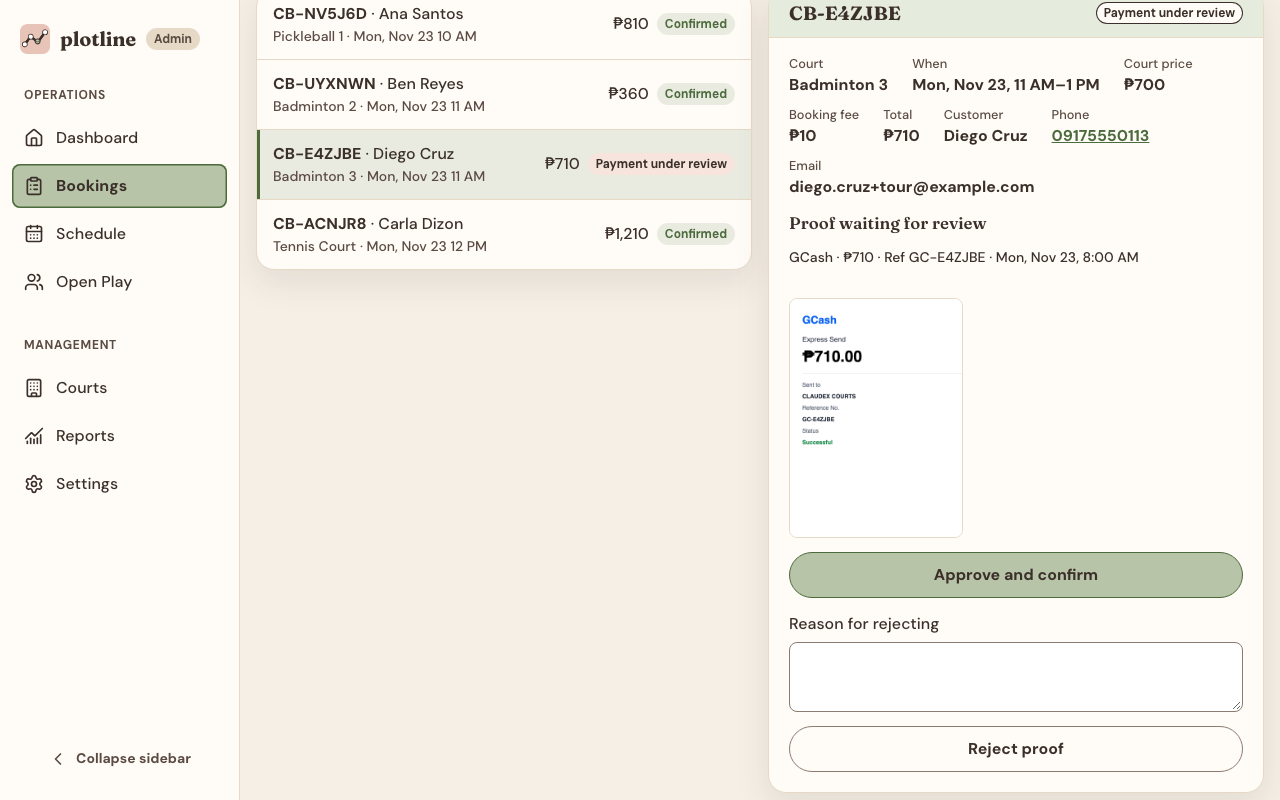
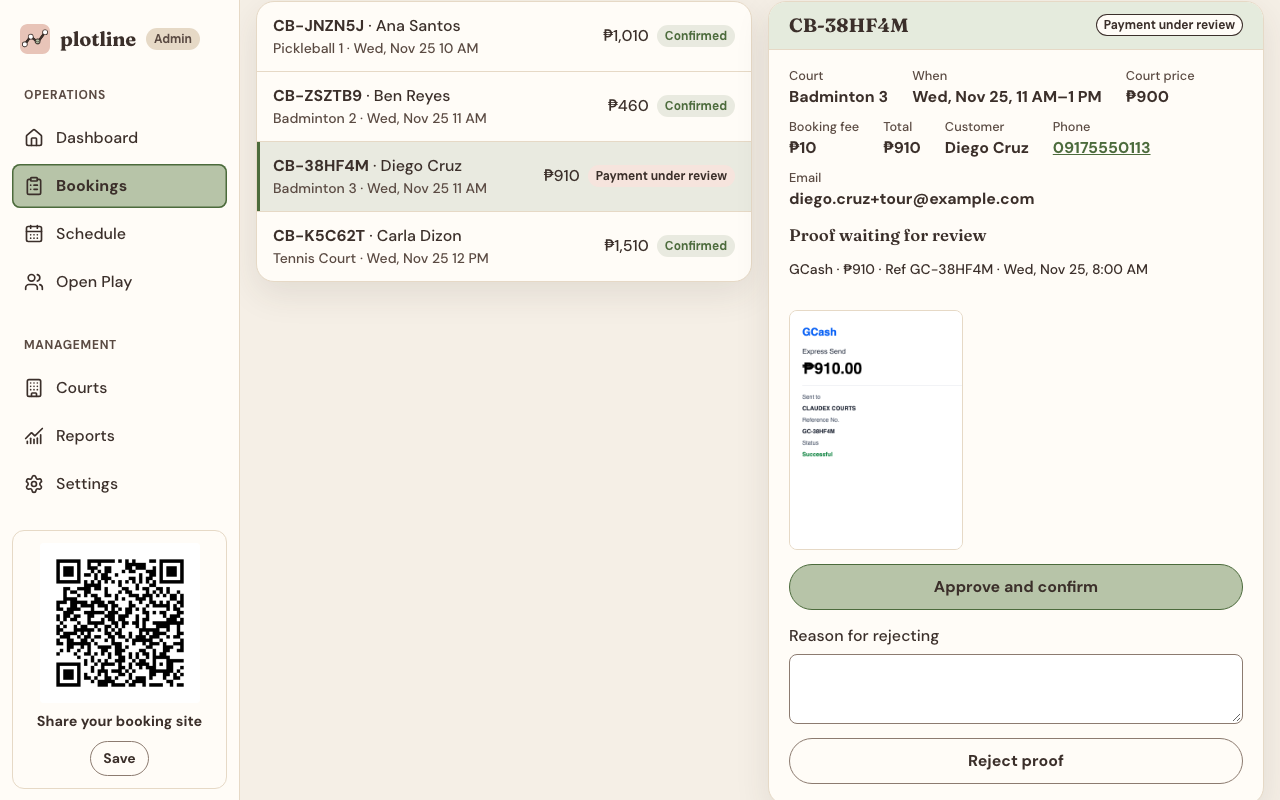
docs: T34.2 close out M34 booking-site QR code
SPEC §9 item 34 done; admin tour pictures redrawn with the QR card.

diff --git a/TASKS.md b/TASKS.md
@@ -4,7 +4,7 @@ The working plan. [SPEC.md](SPEC.md) says **what** the product does; this file s
 
 ## Handoff
 
-- **Next task:** T34.2 Close out M34. **T34.1 done 2026-11-25** (reviewer PASS, committed on `feat-venue-qr-code`, not pushed; frontend only). Still open: the user's by-eye scan of the saved PNG on staging. **Shared local stack (2026-11-25):** this worktree and the main checkout share one local Supabase. The M33 session's local migrations `20261125043704` and `20261125052908` broke `test:db` here (`MigrationMissingLocalError`), so with the user's go-ahead the local db was reset to this branch's migrations. The M33 checkout's next `test:db` re-applies them (`migration up --local`). The Stop hook's fast checks run in the main checkout, so its red `selection.test.ts`/`BookPage.selection.test.tsx` runs were M33 work in progress, not T34.1. Otherwise T16.4, T16.5, T16.7 or break down the next milestone (needs approval). **Recorded 2026-11-25 (`/propose`, the user's calls, branch `feat-venue-qr-code`): M34 Booking-site QR code**, T34.1 Booking-site QR code in the admin sidebar and T34.2 Close out M34. It's UI only with no plan gate and can start any time. It's numbered 34 because M33 Multi-court checkout is on `feat-multiple-courts-transaction`, so expect a small TASKS/SPEC conflict when the branches meet. The next task doesn't change. **T31.3 Owner manual edition 1.2 done 2026-11-24** (reviewer PASS; 25 pages, 1,859,721 bytes; `OWNER_GUIDE_FILE` = v1.2). **Released 2026-11-24:** PR #53 (`027d015`) put v1.2 on the venue sites, then `invite-venue-owner` went to staging v17 and production v7 (bundle `1cb75a62291a…`); production preflight passed (105 migrations, 11 functions, 7 of 7 venues on schedule v2). Invites now attach v1.2. Not yet proven end to end: no real invite was sent. T16.4, T16.5, T16.7 or break down the next milestone (needs approval). **M31 Daily slots image ✅ done on 2026-11-23** (T31.1, T31.1b, T31.2; frontend only, already on `master` through PR #52, `ee33ce3`; L6: `preflight:release` PASSED on `jmichyttnqygwdcksbpg`, 105 migrations, 11 functions, `origin/master..develop` empty). **T31.1b done 2026-11-23** (Post open slots dialog with preview, Share removed, clearer words; reviewer PASS; added on the user's review of T31.1, design approved in https://claude.ai/artifact/43aHDC37uVwRTGZbn358zg). **T31.1 done 2026-11-23** (slots image on the dashboard, reviewer PASS; frontend only, on `master` through PR #52; the user's Facebook feed check and a logo venue on staging passed, the user confirmed on 2026-11-23). **H20 done 2026-11-23** (`npm run test:db:check -- <file…>` tells a broken pgTAP file from a red one; the test-writer runs it on every new or changed pgTAP file and `/implement` step 4 waits for exit 0; reviewer PASS; its last acceptance point is checked at the next milestone's retro). **M32 Schedule cutover follow-ups ✅ done on 2026-11-23** (T32.1 `2246339`, T32.2 `f9db58f`, T32.3; milestone review PASS). **T32.1's migration `20261123052637` is on staging and production** (pushed to production 2026-11-23 with the user's approval: dry run showed only it; afterwards `preflight:release` PASSED on `jmichyttnqygwdcksbpg` with 105 migrations, 11 functions, 7 of 7 venues on schedule v2; column default `true`; CLI linked back to staging). New venues now start active everywhere, so no hand activation is needed. `develop` also carries T32.2, `53d0472` (admin header fix) and docs, all frontend or docs with their backend on production, so a `develop` → `master` merge is unblocked (the user's call). **Optional housekeeping (the user deferred it on 2026-11-23):** redeploy `email-guest-link` to staging and production to bring its bundle in line with `develop`. No guest sees a difference: it only sends `booking_created`, which never carries a calendar file (only `send-emails` attaches one, for `payment_confirmed`, `booking_reminder` and `booking_rescheduled`; `_shared/calendarFile.ts` `KINDS`), and T30.3 didn't change that email's copy.
+- **Next task:** T16.4, T16.5, T16.7 or break down the next milestone (needs approval). **M34 Booking-site QR code ✅ done on 2026-11-25** (T34.1 `8a4adee`, T34.2; milestone review PASS; frontend only, on branch `feat-venue-qr-code`, not pushed). The production preflight PASSED, with nothing backend held back. Open: the user's by-eye scan of the saved PNG on staging; plotline-site's tour images (copied, uncommitted) need a release; the owner manual's next edition gets the QR card. The `/retro` for M34 is next. **Shared local stack (2026-11-25):** this worktree and the main checkout share one local Supabase. The M33 session's local migrations `20261125043704` and `20261125052908` broke `test:db` here (`MigrationMissingLocalError`), so with the user's go-ahead the local db was reset to this branch's migrations. The M33 checkout's next `test:db` re-applies them (`migration up --local`). The Stop hook's fast checks run in the main checkout, so its red `selection.test.ts`/`BookPage.selection.test.tsx` runs were M33 work in progress, not T34.1. Otherwise T16.4, T16.5, T16.7 or break down the next milestone (needs approval). **Recorded 2026-11-25 (`/propose`, the user's calls, branch `feat-venue-qr-code`): M34 Booking-site QR code**, T34.1 Booking-site QR code in the admin sidebar and T34.2 Close out M34. It's UI only with no plan gate and can start any time. It's numbered 34 because M33 Multi-court checkout is on `feat-multiple-courts-transaction`, so expect a small TASKS/SPEC conflict when the branches meet. The next task doesn't change. **T31.3 Owner manual edition 1.2 done 2026-11-24** (reviewer PASS; 25 pages, 1,859,721 bytes; `OWNER_GUIDE_FILE` = v1.2). **Released 2026-11-24:** PR #53 (`027d015`) put v1.2 on the venue sites, then `invite-venue-owner` went to staging v17 and production v7 (bundle `1cb75a62291a…`); production preflight passed (105 migrations, 11 functions, 7 of 7 venues on schedule v2). Invites now attach v1.2. Not yet proven end to end: no real invite was sent. T16.4, T16.5, T16.7 or break down the next milestone (needs approval). **M31 Daily slots image ✅ done on 2026-11-23** (T31.1, T31.1b, T31.2; frontend only, already on `master` through PR #52, `ee33ce3`; L6: `preflight:release` PASSED on `jmichyttnqygwdcksbpg`, 105 migrations, 11 functions, `origin/master..develop` empty). **T31.1b done 2026-11-23** (Post open slots dialog with preview, Share removed, clearer words; reviewer PASS; added on the user's review of T31.1, design approved in https://claude.ai/artifact/43aHDC37uVwRTGZbn358zg). **T31.1 done 2026-11-23** (slots image on the dashboard, reviewer PASS; frontend only, on `master` through PR #52; the user's Facebook feed check and a logo venue on staging passed, the user confirmed on 2026-11-23). **H20 done 2026-11-23** (`npm run test:db:check -- <file…>` tells a broken pgTAP file from a red one; the test-writer runs it on every new or changed pgTAP file and `/implement` step 4 waits for exit 0; reviewer PASS; its last acceptance point is checked at the next milestone's retro). **M32 Schedule cutover follow-ups ✅ done on 2026-11-23** (T32.1 `2246339`, T32.2 `f9db58f`, T32.3; milestone review PASS). **T32.1's migration `20261123052637` is on staging and production** (pushed to production 2026-11-23 with the user's approval: dry run showed only it; afterwards `preflight:release` PASSED on `jmichyttnqygwdcksbpg` with 105 migrations, 11 functions, 7 of 7 venues on schedule v2; column default `true`; CLI linked back to staging). New venues now start active everywhere, so no hand activation is needed. `develop` also carries T32.2, `53d0472` (admin header fix) and docs, all frontend or docs with their backend on production, so a `develop` → `master` merge is unblocked (the user's call). **Optional housekeeping (the user deferred it on 2026-11-23):** redeploy `email-guest-link` to staging and production to bring its bundle in line with `develop`. No guest sees a difference: it only sends `booking_created`, which never carries a calendar file (only `send-emails` attaches one, for `payment_confirmed`, `booking_reminder` and `booking_rescheduled`; `_shared/calendarFile.ts` `KINDS`), and T30.3 didn't change that email's copy.
 - **Schedule v2 activated everywhere (2026-11-23, the user's approval; outputs seen this session):** owners' later closing times (11 PM, midnight) never reached players because the T17.17 activation (docs/SCHEDULE-CUTOVER.md step 4) had never run. **Staging** `avhxinkecylhptysgbjx`: Claudex Courts' periods had drifted, so they were first rewritten from `operating_hours` (the user's call), then both venues were activated. **Production** `jmichyttnqygwdcksbpg`: `preflight:release` PASSED (104 migrations, 11 functions). No custom courts, and no future booking outside the periods. All 7 venues were activated keeping the editor's hours (the user's call); claudex-courts and prj-pickle-court-sports-center now run past 10 PM. Production was reached with `npx supabase db query --linked --project-ref jmichyttnqygwdcksbpg`; the CLI link stays on staging. Rates were never affected. Follow-ups are **M32** (T32.1 new venues start active, risky; T32.2 admin stops reading the legacy hours; T32.3 close out). (T32.1 reached production on 2026-11-23, so new venues start active; no hand activation is needed.)
 - **Product audit (2026-11-12):** reviewed both repositories as one SaaS; see [Plotline SaaS product review](<reports/Plotline SaaS product review.md>). Analysis only: recommendations are not accepted backlog or implementation changes; product code and the current next task are unchanged. Research included read-only live marketing/demo inspection; no implementation gates were run. **Broken down on 2026-11-13 into M27** (the user's calls; see Current milestone).
 
@@ -3345,7 +3345,8 @@ Venue owners hand their booking site to players and post it on Facebook. Every v
   - By eye (the user): scan the saved PNG from a phone screen and from a printout, for a venue with a logo and one without, on staging.
   - The full gate passes and the reviewer signs off.
 
-### [ ] T34.2 Close out M34
+### [x] T34.2 Close out M34
+- Notes: done 2026-11-25. SPEC §9 item 34 ✅; the /propose §10 row now points at T34.1, whose row matches the code; §7 checked. **L2 grep:** nothing in `e2e/`, `scripts/` or `docs/owner-manual/{capture,build}.mjs` reads the sidebar or drawer contents (counts, last items, crops), and no page-wide selector matches the new **Save** button (others are scoped or longer, such as "Save promo" and `/^Save /`). **Screenshots:** `db:reset:local` (the user's call, 2026-11-25: the shared local db held M33's two migrations again), then `npm run tour:shots` redrew `docs/admin-tour/` (9 pictures changed, `dashboard-phone.png` identical) and copied all 10 to `../plotline-site/public/admin-tour/`, uncommitted there, so **plotline-site's tour images need a release**. At the 800px-tall capture window the card pushes Collapse sidebar below the fold (the sidebar scrolls, so it stays reachable). **Owner manual next-edition list:** add the booking-site QR code (the sidebar card, the collapsed icon and dialog, the drawer, Save). The manual's admin screenshots will show the card once recaptured. **Release (L6):** `preflight:release -- --project-ref jmichyttnqygwdcksbpg` PASSED (commit 8a4adee: 105 migrations, 11 functions; target 105 applied, 11 deployed, 7 of 7 venues on schedule v2). `origin/master..origin/develop` is empty, and `origin/master..HEAD` holds only T34.1 (frontend only), so this branch can go to `develop` and `master` with no backend step. Milestone review PASS, no findings. **Still open:** the user's by-eye scan of the saved PNG on staging (from T34.1).
 - **Depends:** T34.1
 - **Do:**
   - **SPEC:** mark §9 item 34 ✅ and check §7 and §10 match what was built.

diff --git a/SPEC.md b/SPEC.md
@@ -550,14 +550,14 @@ Until emails ship, the confirmation page shows the private link with a "save thi
 30. ✅ **Retention basics** (added 2026-11-20, `/propose` on the [Plotline competitor and growth audit](<reports/Plotline competitor and growth audit.md>); done 2026-11-22; T30.1–T30.9 in TASKS): a reminder email at 6 pm venue time the day before play, and an `.ics` calendar file on the confirmation (and an updated one on a reschedule); **Same time next week** on the booking page and in the confirmation and reminder emails, opening checkout for the next free week, with each such booking recorded (`bookings.rebooked_from`) and counted in earnings; a web manifest and icons, served per venue by the same Worker (no service worker), so Add to Home Screen installs the venue under its own name and logo; refund status on bookings (owed, settled or not refunded, with amount, method and date), created automatically wherever staff used to settle outside the app, shown to players, and counted in earnings as Refunded with a net figure; recording only, no money moves; per-venue title, description and image for link previews, set at the edge by a Cloudflare Worker that runs only on `/`, `/book` and `/manifest.webmanifest` (T30.7, T30.8) and never shows booking details. The audit's front-desk staff role is **dropped** (the user's call: staff accounts exist so a venue can have several owners). Four migrations (T30.2, T30.3, T30.5), a `send-emails` change and a new edge script: plan gates applied, and the backend reaches production before any frontend that uses it (released 2026-11-21; PLATFORM.md §7).
 31. ✅ **Daily slots image** (added 2026-11-23, `/propose`; done 2026-11-23; T31.1, T31.1b, T31.2 in TASKS): venue owners post the day's open slots to Facebook every day. **Post open slots** in the heading of `/admin`'s Today's courts card opens **Post your open courts**, a dialog that previews a 1080×1350 PNG of today's (or tomorrow's) open slots: each court's free time ranges, with the venue's name, logo and theme colors, the date and the booking address. They choose the day (dated: "Today · Mon, Nov 23"), see the picture and the caption beside it, then **Download picture** (on a phone, pressing and holding the preview saves it to Photos) and **Copy caption**, the same times and the booking link as text. No share-sheet button (T31.1b). The image is drawn in the browser from `get_availability`. UI only: no schema, RLS or Edge Function change.
 32. ✅ **Schedule cutover follow-ups** (added 2026-11-23, the user's request after a production bug; T32.1–T32.3 in TASKS): new venues start on Weekly Hours & Rates (schedule v2) instead of the legacy hours, and the release preflight fails when any venue on the target is still on the legacy hours. The admin dashboard, reschedule and open play stop reading `operating_hours`, and the unused legacy editors are deleted. One migration (T32.1, plan gate). Removing the legacy tables stays a later contract task.
-34. **Booking-site QR code** (added 2026-11-25, `/propose`; T34.1, T34.2 in TASKS; numbered 34 because M33 Multi-court checkout is being built on another branch): every venue admin page shows the venue's booking-site QR code at the bottom of the sidebar (and at the end of the phone menu drawer), with the note "Share your booking site" and a small **Save** button that downloads it as a PNG to hand to players or post on Facebook. The code opens the venue's `/book`. With a logo set, the logo sits on a white square in the middle; without one, it's a plain QR. It always scans. Drawn in the browser. UI only: no schema, RLS or Edge Function change.
+34. ✅ **Booking-site QR code** (added 2026-11-25, `/propose`; done 2026-11-25; T34.1, T34.2 in TASKS; numbered 34 because M33 Multi-court checkout is being built on another branch): every venue admin page shows the venue's booking-site QR code at the bottom of the sidebar (and at the end of the phone menu drawer), with the note "Share your booking site" and a small **Save** button that downloads it as a PNG to hand to players or post on Facebook. The code opens the venue's `/book`. With a logo set, the logo sits on a white square in the middle; without one, it's a plain QR. It always scans. Drawn in the browser. UI only: no schema, RLS or Edge Function change.
 
 ## 10. Decisions log
 
 | Date       | Decision                                                                                                                                                                         |
 | ---------- | -------------------------------------------------------------------------------------------------------------------------------------------------------------------------------- |
 | 2026-11-25 | Booking-site QR code built (T34.1, frontend only). `src/features/admin/bookingQr.ts` draws it with `qrcode` 1.5.4 (`QRCode.create`, error correction H) on a canvas: whole-pixel black square modules on white, a 4-module quiet zone, centred in 1024×1024. With a logo, a white rounded square no wider than 22% of the code (`LOGO_MAX_RATIO`) sits in the middle, the logo fitted inside at 80% of it; a logo that fails to load or taints the canvas gives a plain code. `useBookingQr` draws once per address and logo in `AdminWorkspace` (shared by the sidebar, the collapsed dialog and the drawer) and revokes the previous object URL. `jsqr` 1.4.0 (dev) proves the layout decodes with the logo box blanked, for a short slug, a 40-character slug and the `?venue=` form. |
-| 2026-11-25 | Booking-site QR code (M34, `/propose`; not built yet; the user's calls). **Where:** always visible at the bottom of the venue admin's sidebar, above Collapse sidebar, as a QR with "Share your booking site" and a small **Save** button (the user's idea, over a Venue Profile section, a dashboard dialog or a new Settings category). **Collapsed sidebar:** a QR icon opens a small dialog with the code and Save, and the sidebar stays collapsed. **Phones and tablets:** the same card ends the menu drawer. **Buttons:** Save only. No copy-link or copy-picture button (the user's call: a smaller card). **Picture:** a 1024×1024 PNG of only the QR, logo in the middle when set, no name or text (the user's call, like their reference image). **Link:** the venue's `/book` through `venueBookUrl`, the same link as the Post open slots caption. **Scannable:** error correction level H, the logo box at most about 22% of the width, and a logo that fails to load gives a plain QR. A unit test decodes the code with the logo box blanked. New dependencies: `qrcode` (admin-only code) and `jsqr` (tests). |
+| 2026-11-25 | Booking-site QR code (M34, `/propose`; built in T34.1, see the row above; the user's calls). **Where:** always visible at the bottom of the venue admin's sidebar, above Collapse sidebar, as a QR with "Share your booking site" and a small **Save** button (the user's idea, over a Venue Profile section, a dashboard dialog or a new Settings category). **Collapsed sidebar:** a QR icon opens a small dialog with the code and Save, and the sidebar stays collapsed. **Phones and tablets:** the same card ends the menu drawer. **Buttons:** Save only. No copy-link or copy-picture button (the user's call: a smaller card). **Picture:** a 1024×1024 PNG of only the QR, logo in the middle when set, no name or text (the user's call, like their reference image). **Link:** the venue's `/book` through `venueBookUrl`, the same link as the Post open slots caption. **Scannable:** error correction level H, the logo box at most about 22% of the width, and a logo that fails to load gives a plain QR. A unit test decodes the code with the logo box blanked. New dependencies: `qrcode` (admin-only code) and `jsqr` (tests). |
 | 2026-11-24 | Owner manual edition 1.2 (T31.3, the user's request after a check of the admin against edition 1.1). New text for M29–M31: the refund records (a refund is recorded as owed and the venue marks it refunded or not refunded, replacing "arrange outside the app" and the **Refund due** badge, which is now **Refund owed**), the venue logo, Post open slots, Run this as a stack, the day-before reminder and calendar file, Same time next week and Add to Home Screen. New pages: Refunds you owe players, Open slots and stacks, Reminders and repeat bookings (25 pages). The screens are re-captured (`day-view` shows the new button) at JPEG quality 74 in `capture.mjs` (was 82) to stay under the 2,000,000-byte budget. Released as `public/guides/venue-owner-manual-v1.2.pdf`, with `venue-owner-manual.pdf` the same bytes and v1.0 and v1.1 kept for emails already sent. `OWNER_GUIDE_FILE` is v1.2. **Release order:** the frontend first (so v1.2 is live on the venue site), then `invite-venue-owner`; deployed the other way round, the invite can't fetch the PDF and sends only the link. Walk-ins and the Today's bookings and Next booking cards are still not described (the user's call, left optional). |
 | 2026-11-23 | New venues start on schedule v2 (T32.1, migration `20261123052637_t32_1_new_venues_active`; the user approved the plan). `venue_schedule_state.schedule_v2_active` defaults to true and `private.initialize_venue_schedule_state()` inserts new venues active; existing rows keep their flag. `create_venue` is unchanged: its default 06:00–22:00 `operating_hours` insert runs as the definer, so `operating_hours_v2_guard` (anon/authenticated only) lets it through, and `operating_hours_expand_insert` mirrors it into `venue_open_periods`. On an active venue `venue_setup_status`'s "hours" item reads the effective periods of active courts (T17.12), so a fresh venue shows hours as not done until it has a court. The local demo venue is activated by `seed.sql`; pgTAP files and e2e/scripts that test the legacy path set their own venues back to legacy. `npm run preflight:release` also reads `venues` × `venue_schedule_state` on the target (`supabase db query --linked --project-ref`, read-only) and fails, naming each slug, when any venue is not on schedule v2 (a missing state row counts as inactive). |
 | 2026-11-23 | Admin stops reading the legacy hours (T32.2, frontend only, no SQL). The dashboard's "today" and overnight window come only from `get_staff_schedule` (`useStaffSchedule`: yesterday and the local date), and its cards show the loader, or the error with retry, until both arrive. Reschedule and open play drop their unused `hours` props. Deleted: `CourtRatesSection`, `fetchOperatingHours`, `saveOperatingHours` and their hooks, the `OperatingHours` type, and the legacy helpers (`summarizeHours`, `operatingToday`, `operatingDayRange`, `operatingDateOf`, `daySpan`, `findOverlap`, `findSameTime`, `isOvernight`, `isAllDay`, `operatingHourOptions`, `closedDaysOfWeek`) with their tests. No file under `src/` reads `operating_hours` or calls `set_operating_hours`. The legacy tables and `private.operating_day_range` stay until the later contract task. |
